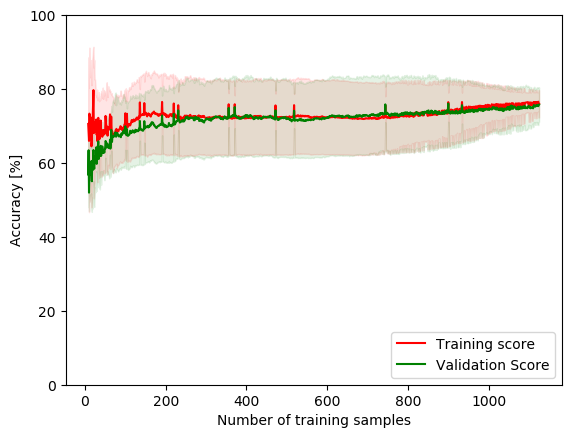
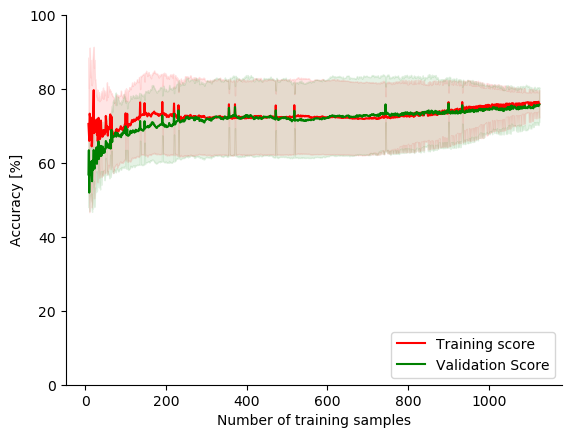
replot learning curve without top and right axis and remove legened form topo pred bio set

diff --git a/Code/mainTrainValTestWT.py b/Code/mainTrainValTestWT.py
@@ -106,6 +106,7 @@ def mainTrainValTestWT(runDivEventPred=True, givenSets=None, baseResultsFolder=N
                                                runModelTraining = runModelTraining,
                                                runModelTesting = runModelTesting,
                                                saveLearningCurve = saveLearningCurve,
+                                               plotLearningCurveLegend=True if set != "bio" else False,
                                                centralCellsDict=centralCellsDict,
                                                normalisePerTissue=normalisePerTissue,
                                                normaliseTrainTestData=normaliseTrainTestData,
@@ -121,7 +122,7 @@ def mainTrainValTestWT(runDivEventPred=True, givenSets=None, baseResultsFolder=N
 
 
 if __name__ == '__main__':
-    mainTrainValTestWT(runDivEventPred=False, runModelTraining=True, saveLearningCurve=True,
-                       excludeDividingNeighboursProperties=[True], runModelTesting=True,
-                       givenSets=["bio", "topoAndBio", "lowCor0.3", "lowCor0.5", "lowCor0.7"])
-    # mainTrainValTestWT(runDivEventPred=False, runModelTraining=True, saveLearningCurve=False)
+    mainTrainValTestWT(runDivEventPred=True, runModelTraining=False, saveLearningCurve=True,
+                       runModelTesting=False)
+    mainTrainValTestWT(runDivEventPred=False, runModelTraining=False, saveLearningCurve=True,
+                       excludeDividingNeighboursProperties=[True], runModelTesting=False)

diff --git a/Code/Predicting/PredictonEvaluator.py b/Code/Predicting/PredictonEvaluator.py
@@ -52,7 +52,7 @@ class PredictonEvaluator (object):
         if useTestData:
             self.testModelOn(self.X_test, self.y_test)
 
-    def doLearningCurveEstimation(self, useTestData=False, loadPerformances=False):
+    def doLearningCurveEstimation(self, useTestData=False, loadPerformances=True):
         allTrainPsFilename = self.saveToFolder + "allTrainPsStartingFrom{}.pkl".format(self.startRange)
         allValPsFilename = self.saveToFolder + "allValPsStartingFrom{}.pkl".format(self.startRange)
         usedSmpleNumbersFilename = self.saveToFolder + "usedSmpleNumbersStartingFrom{}.pkl".format(self.startRange)
